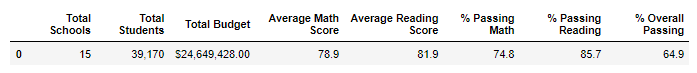
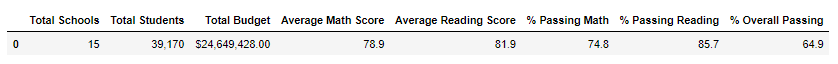
updating README.md

diff --git a/README.md b/README.md
@@ -1,56 +1,91 @@
 # School_District_Analysis
-## Overview: 
+## Overview of the School District Analysis: 
 
 Maria, the chief data scientist for a city school district, recruited my help to prepare standardized test data for analysis, reporting, and presentation to provide the school board with insights about performance trends and patterns within the district schools. 
 
-After completing the initial analysis, the school board notified Maria that there may have been some academically dishonest reporting of the students grades from Thomas High School, specifically the 9th grade. Maria then had me go back through the data and replace the scores with "Nan", while keeping the remaining data intact, then repeat the analysis and write a report to describe how the changes affected the overall analysis.
+After completing the initial analysis, the school board notified Maria that there may have been some academically dishonest reporting of the students grades from Thomas High School(THS), specifically the 9th grade. The school board is concerned with uphold the state-testing standards. Maria then had me go back through the data and replace the scores with "Nan", while keeping the remaining data intact, then repeat the analysis and write a report to describe how the changes affected the overall analysis.
 
-### Metrics Measured:
+### 7 Metrics Measured:
+- Total Students
+- Total Budget
+- Average Math Score
+- Average Reading Score
+- % Passing Math
+- % Passing Reading
+- % Overall Passing
 
-## Results:
+## Results of the School District Analysis:
 
-- How is the district summary affected?
+- District Summary
 
+As seen in the data below, removing THS 9th grade had little impact on the districts scores or passing percentages.
+
+#### Initial District Summary 
 <img src= 'Resources/district_summary.png'>
+
+#### District Summary After Removing THS 9th Grade Scores 
 <img src= 'Resources/district_summary_no_ths9.png'>
 
-- How is the school summary affected?
-  - How does replacing the ninth graders’ math and reading scores affect Thomas High School’s performance relative to the other schools?
+- School Summary
 
+When looking at the school summaries of the top five schools, you can see that the removals of THS 9th grade hardly had an affect on the scores or percentages on the school itself or where is stood in relation to the other schools.
+
+#### Initial School Summary, Showing Top 5 Schools
 <img src= 'Resources/top_five_schools.png'>
+
+#### School Summary, Showing Top 5 Schools After Removing THS 9th Grade Scores
 <img src= 'Resources/top_five_schools_no_ths9.png'>
 
-- How does replacing the ninth-grade scores affect the following:
-- Math and reading scores by grade
 
-  - Math Scores
+## Additional Results Reviewed
 
-<img src= 'Resources/math_test_scores_all.png'>     <img src= 'Resources/math_test_scores_no_ths9.png'>
+As shown in the reporting below, after removing the Thomas High School 9th grade scores, there was no change in math and reading scores by grade, school spending, school size,or school type.
 
- - - Reading scores
+- Math Scores by Grade
 
-<img src= 'Resources/reading_test_scores_all.png'>    <img src= 'Resources/reading_test_scores_no_ths9.png'>
+#### Initial Math Scores by Grade 
+<img src= 'Resources/math_test_scores_all.png'>   
 
-  - Scores by school spending
+#### Math Scores by Grade After Removing THS 9th Grade Scores
+<img src= 'Resources/math_test_scores_no_ths9.png'>
 
-  <img src= 'Resources/school_spending_summary.png'>
-  <img src= 'Resources/school_spending_summary_no_ths9.png'>
+- Reading Scores by Grade
 
+#### Initial Reading Scores by Grade
+<img src= 'Resources/reading_test_scores_all.png'> 
 
+#### Reading Scores by Grade After Removing THS 9th Grade Scores
+<img src= 'Resources/reading_test_scores_no_ths9.png'>
 
-  - Scores by school size
+- School Spending Summaries
 
-  <img src= 'Resources/school_size_summary.png'>
-  <img src= 'Resources/school_size_summary_no_ths9.png'>
+#### Initial School Spending Summary
+<img src= 'Resources/school_spending_summary.png'>
 
-
-  - Scores by school type
-
-  <img src= 'Resources/school_type_summary.png'>
-  <img src= 'Resources/school_type_summary_no_ths9.png'>
-
-
-## Summary: Summarize four changes in the updated school district analysis after reading and math scores for the ninth grade at Thomas High School have been replaced with NaNs.
+#### School Spending Summary After Removing THS 9th Grade Scores
+<img src= 'Resources/school_spending_summary_no_ths9.png'>
 
 
 
+- School Size Summaries
+
+#### Initial School Size Summary
+<img src= 'Resources/school_size_summary.png'>
+
+#### School Size Summary After Removing THS 9th Grade Scores
+<img src= 'Resources/school_size_summary_no_ths9.png'>
+
+
+- School Type Summaries
+
+#### Initial School Type Summary
+<img src= 'Resources/school_type_summary.png'>
+
+#### School Type Summary After Removing THS 9th Grade Scores
+<img src= 'Resources/school_type_summary_no_ths9.png'>
+
+
+## Summary of the School District Analysis: 
+After changing the math and reading scores of the entire 9th grade at Thomas High School, there were relatively few differences showing up in the district analysis. Thomas High School was the second from the top of all district schools prior to the change and remained there after. The differences were minimal, so if there was some academic dishonesty, the extent was minimla and it did not significantly impact the school numbers nor did it impact the district numbers. The overall analysis shows that there was no difference in school spending, school size, and school type with or without the THS 9th grade scoores.
+
+The final anlysis shows that schools that spent $584 or less per student brought a better result of overall passing at 90%, schools in the "Medium" size range had the best overall passing percent at 91%, and charter schools outperformed the district schools at 90% vs 54% overall passing.
